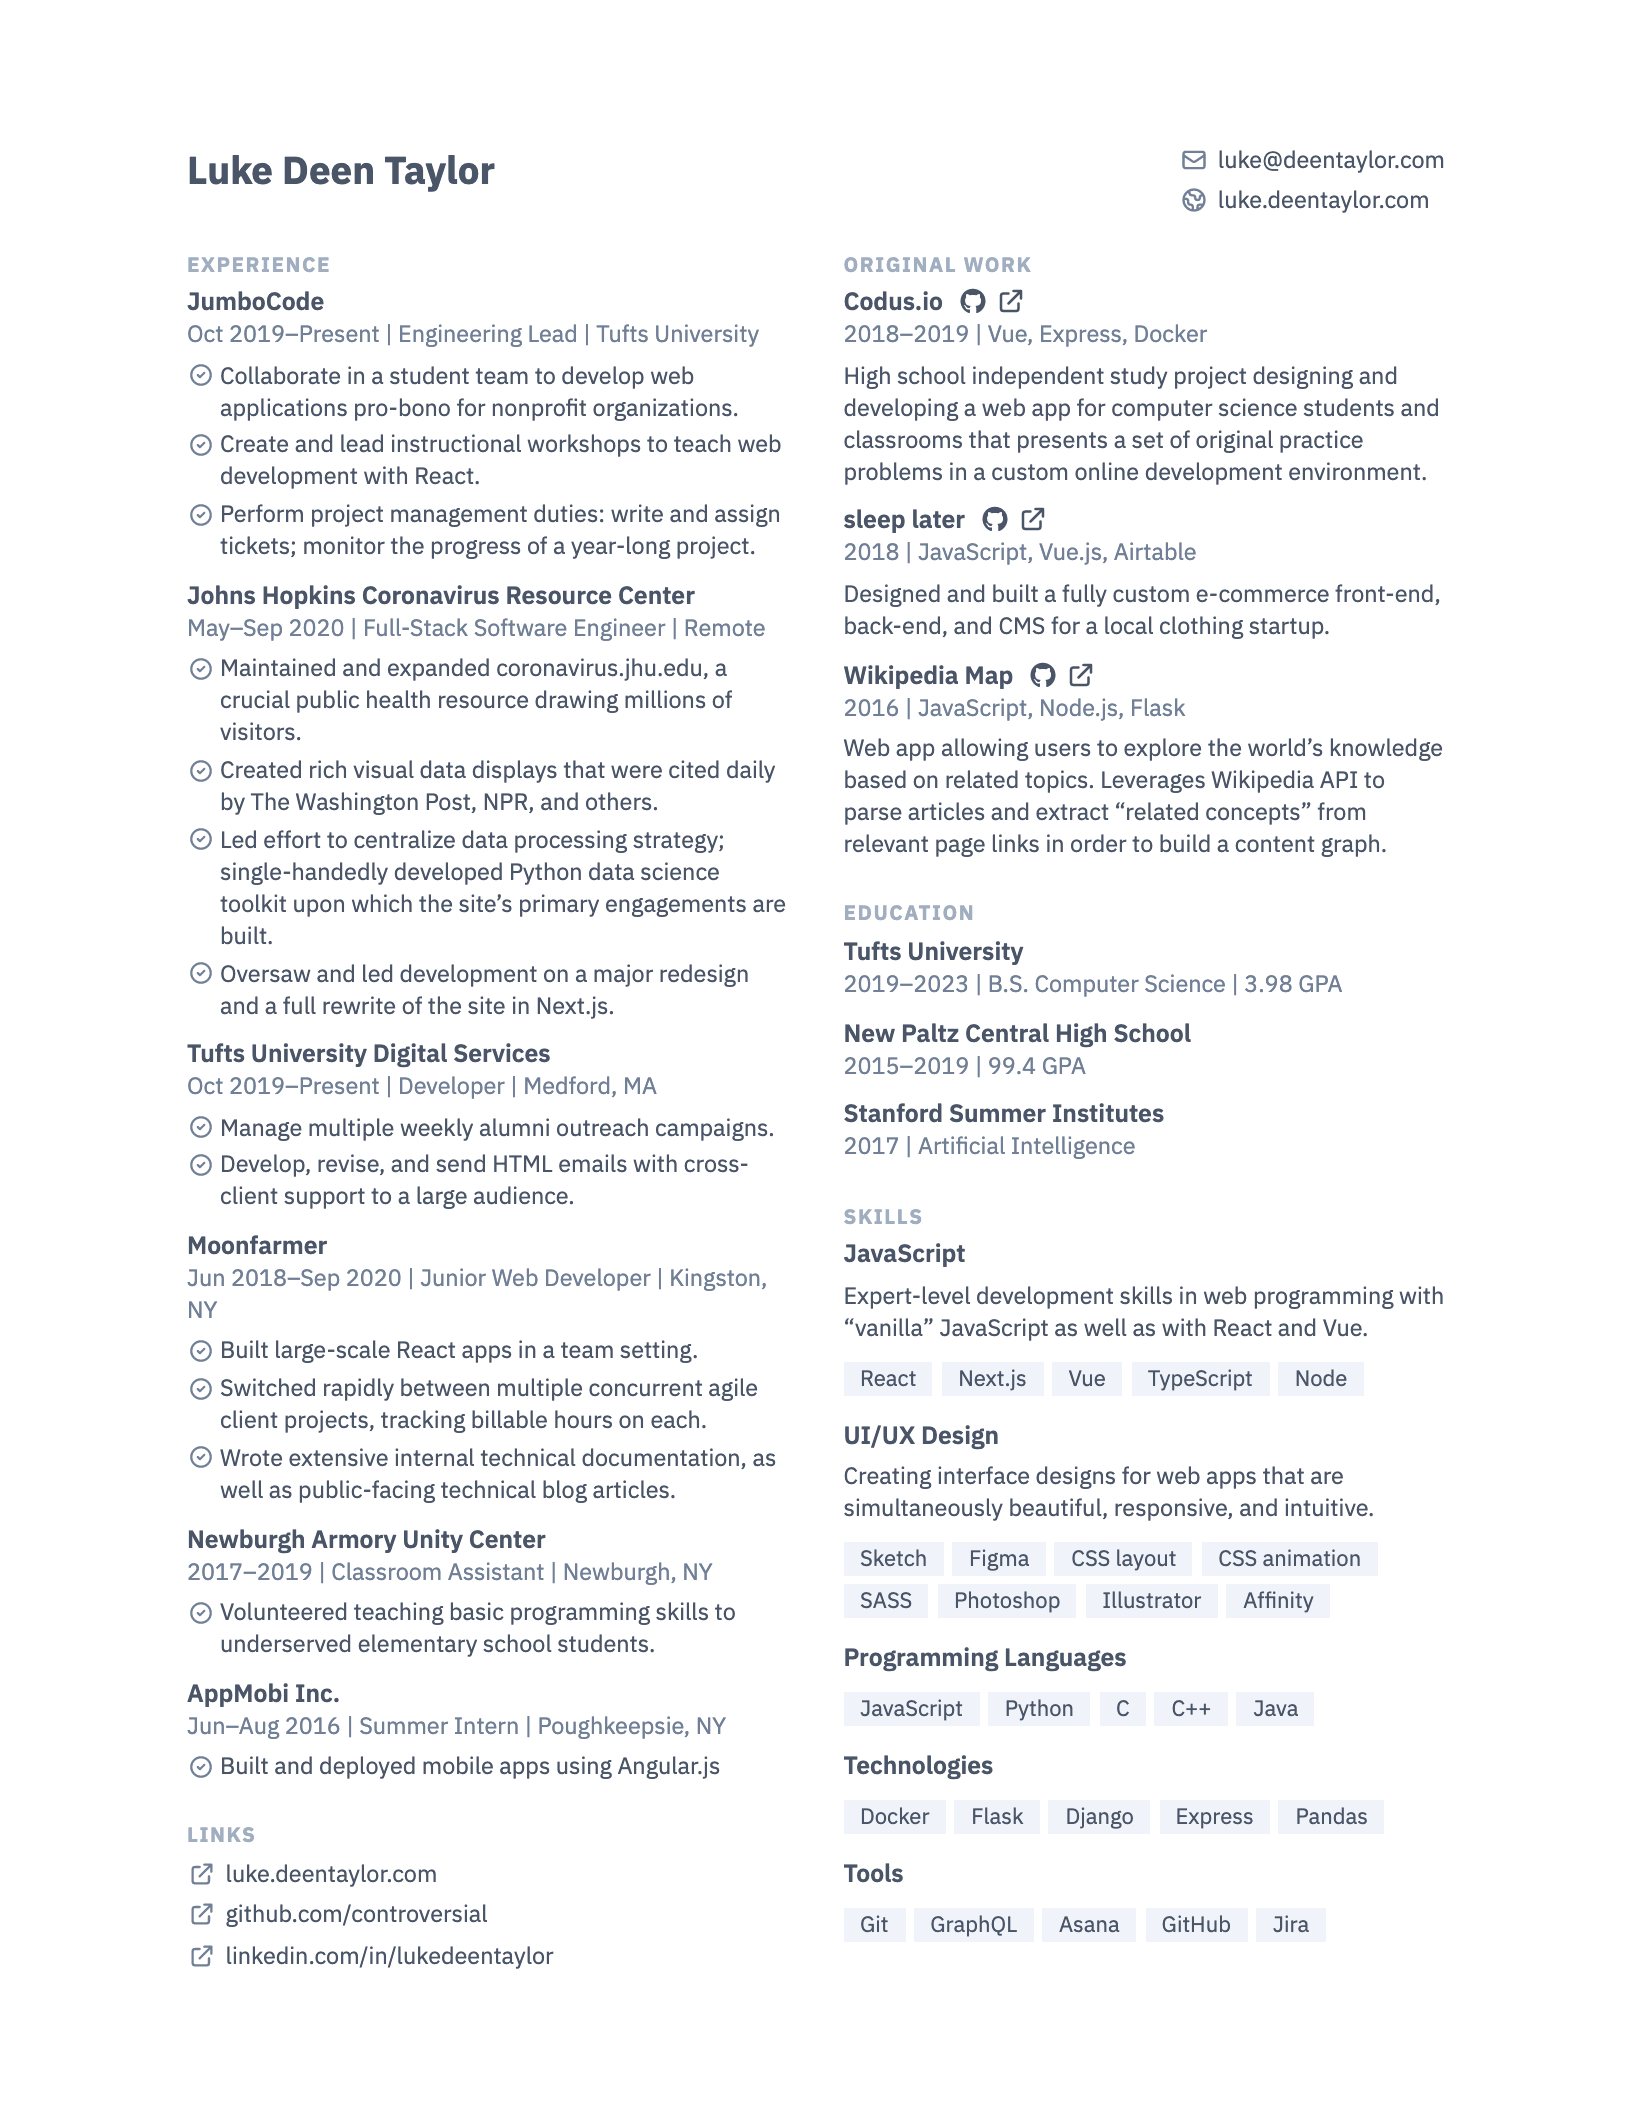
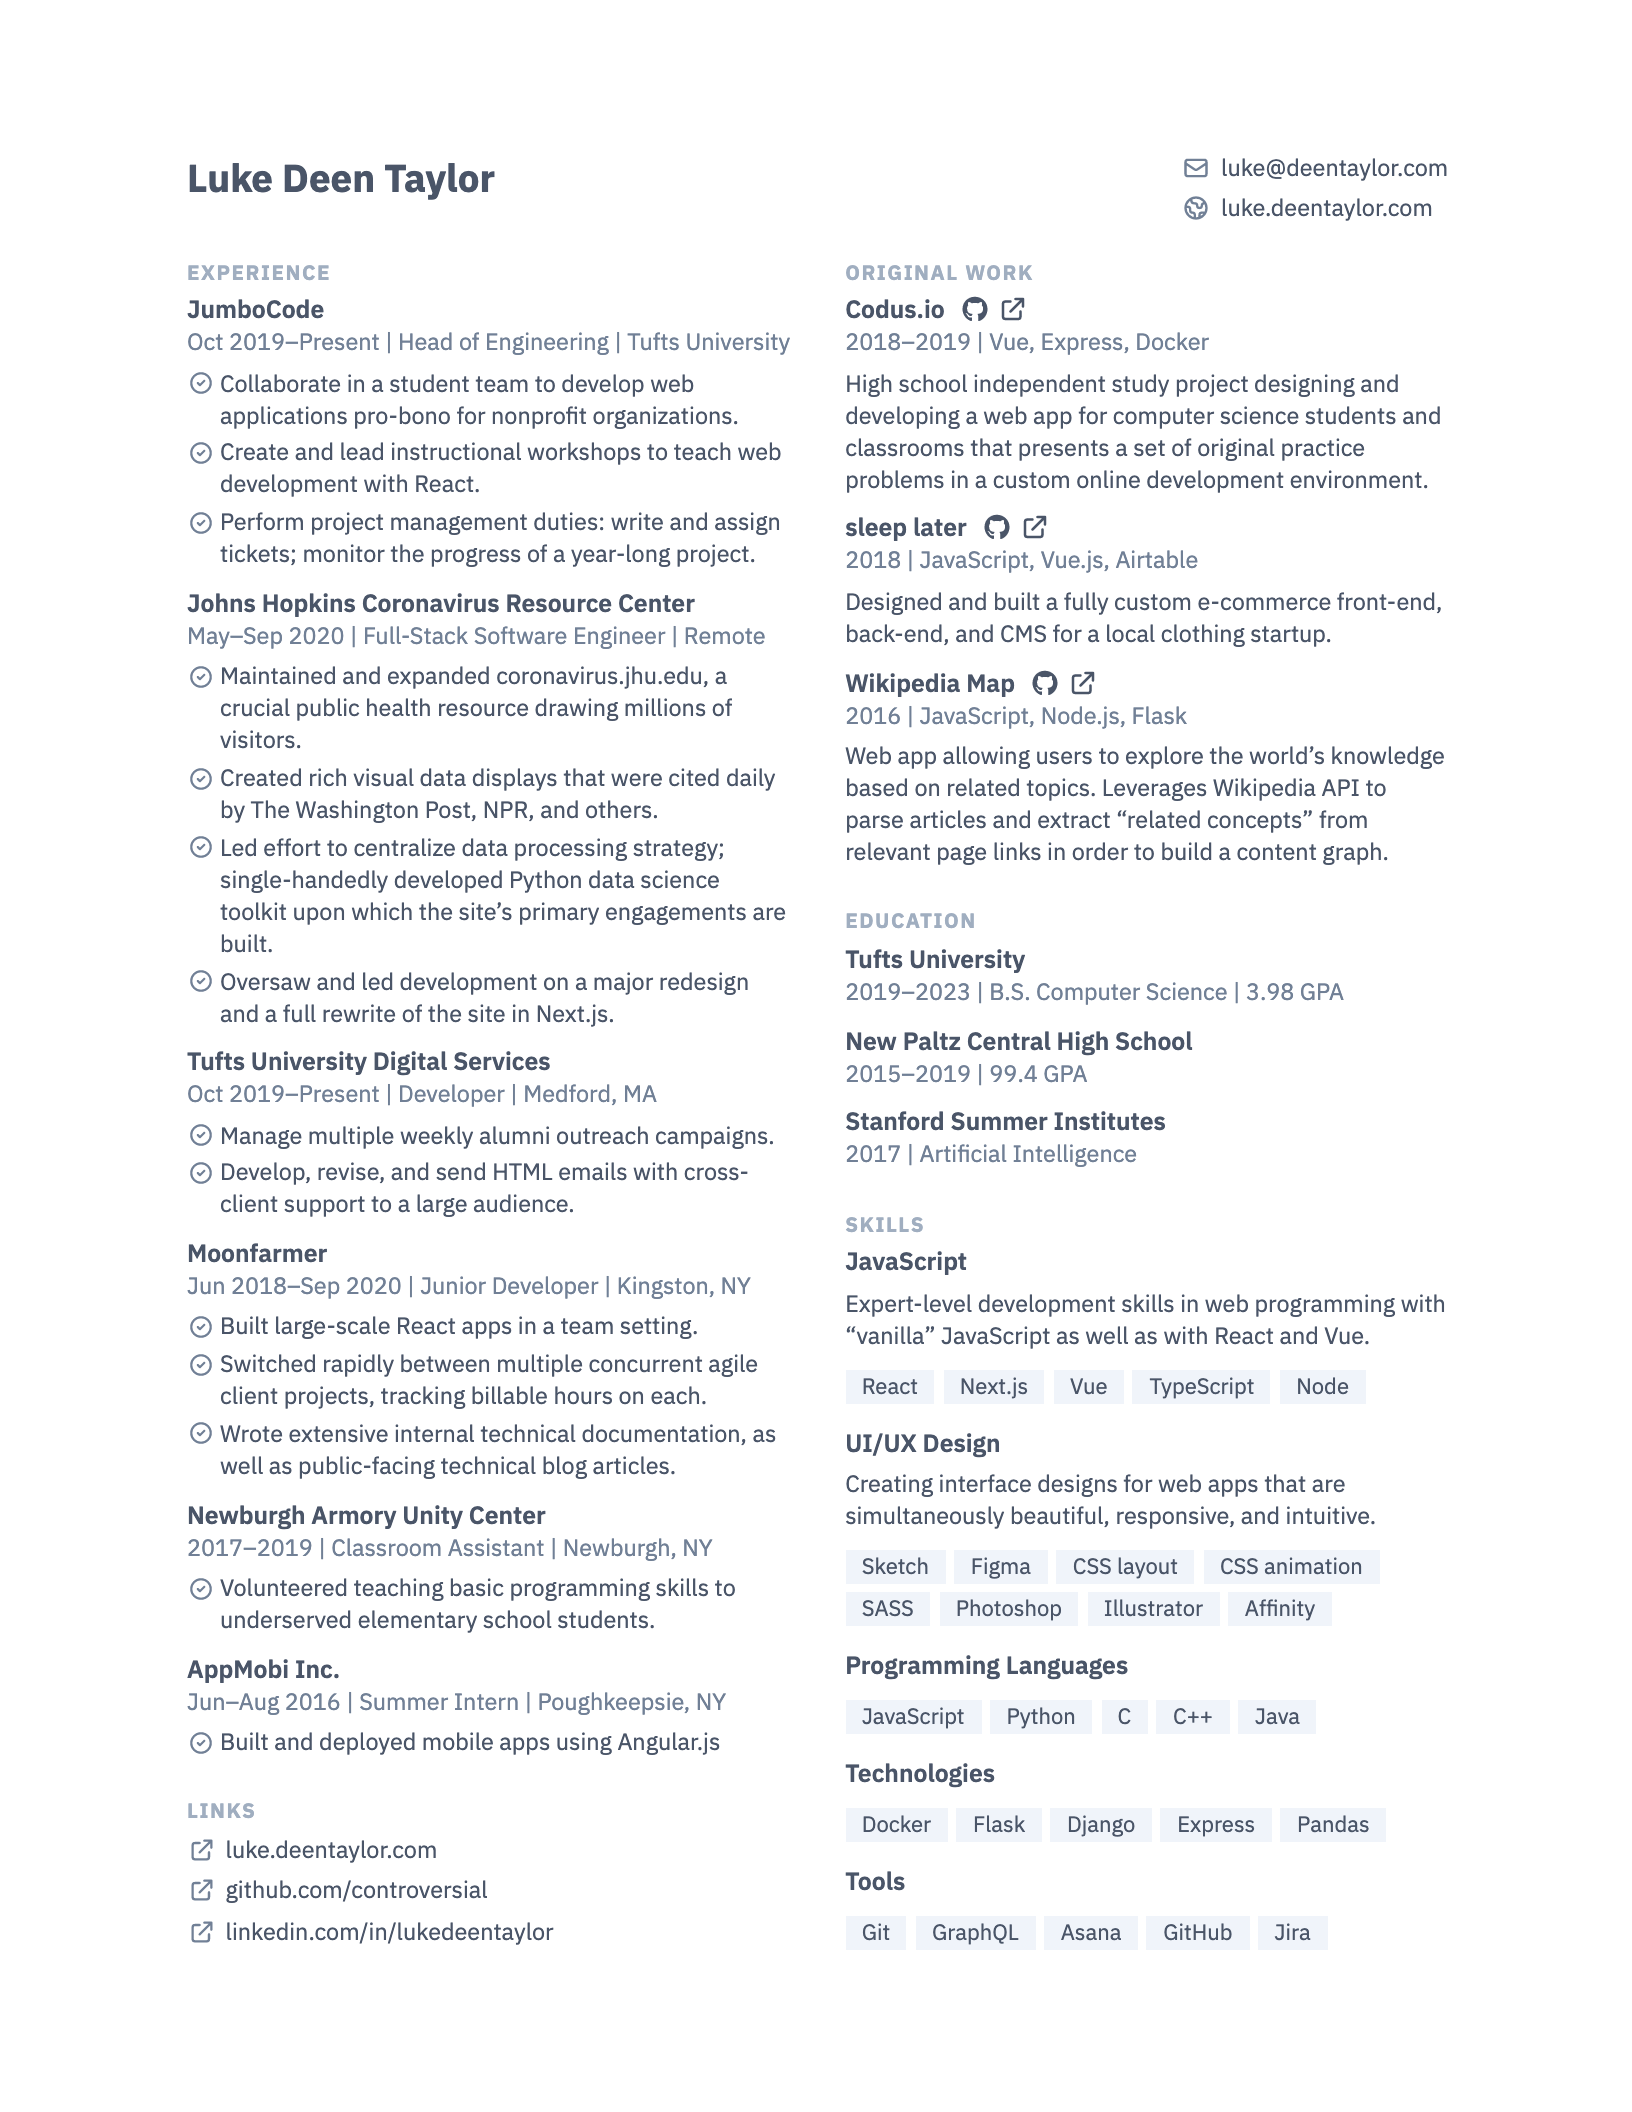
Fix awkward subhead wrapping

diff --git a/src/content.js b/src/content.js
@@ -50,7 +50,7 @@ export default {
     },
     {
       employer: 'Moonfarmer',
-      position: 'Junior Web Developer',
+      position: 'Junior Developer',
       location: 'Kingston, NY',
       startDate: new Date('2018-06-20'),
       endDate: new Date('2020-09-01'),

diff --git a/src/styles.scss b/src/styles.scss
@@ -106,6 +106,8 @@ h3 {
     font-weight: 400;
     color: var(--gray-med);
     margin: 0;
+    max-width: 100%;
+    white-space: nowrap;
   }
 }
 
